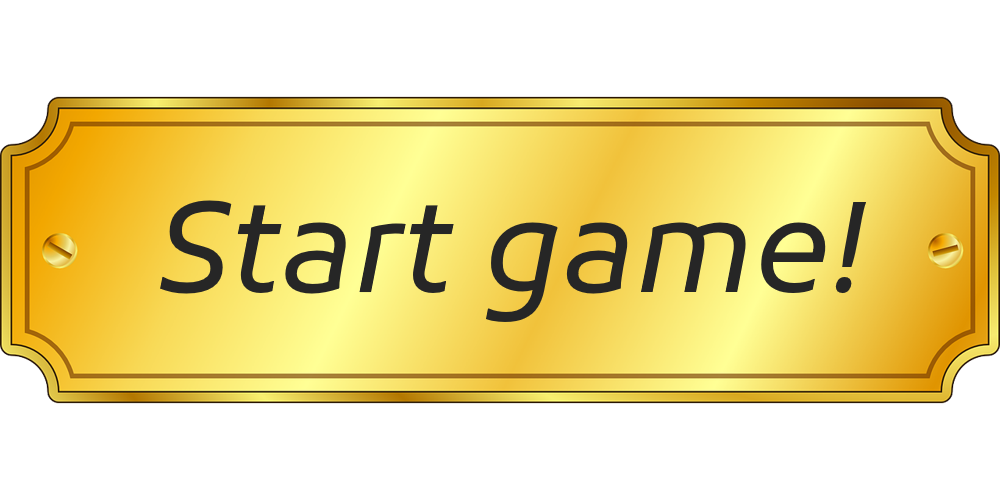
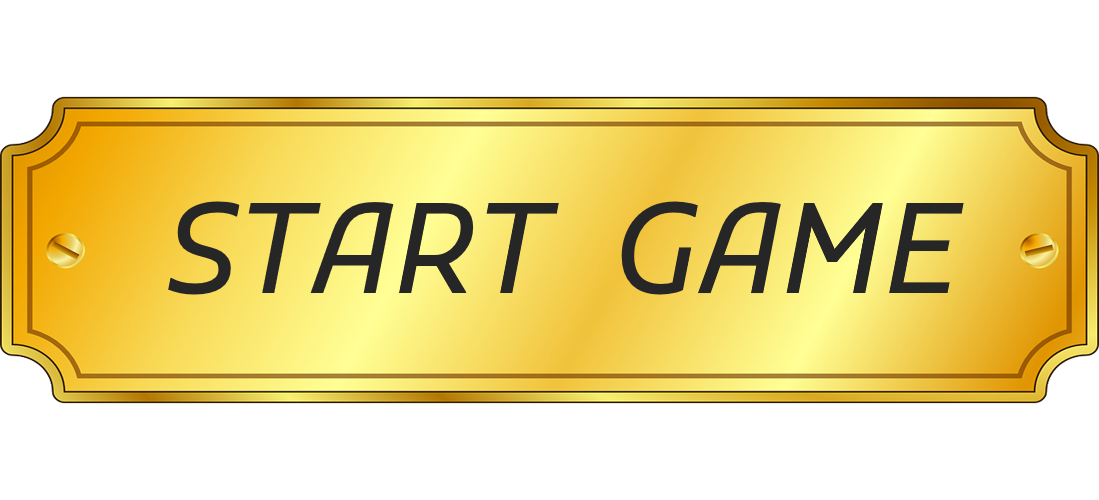
Start-screen: design change + refactoring

Changed region(s): [[0.155, 0.39, 0.899, 0.66]]

diff --git a/src/app/start-screen/start-screen.component.scss b/src/app/start-screen/start-screen.component.scss
@@ -1,27 +1,47 @@
 .start-screen {
-    background-color: #010409ec;
     width: 100vw;
     height: 100vh;
     max-width: 100%;
     display: flex;
-    justify-content: center;
+    justify-content: space-evenly;
     align-items: center;
+    flex-direction: column;
+    position: absolute;
+    z-index: 2;
 
-    img {
-        height: 90vh;
+    h1 {
+        font-size: 5rem;
+        margin-bottom: 0;
+        color: #B30C00;
+        text-shadow: 5px 5px black;
+        text-align: center;
     }
 }
 
-.start-label-box {
+.start-img {
+    max-height: 65vh;
+    max-width: 70vw;
+    object-fit: contain;
+}
+
+.background-img {
     position: absolute;
+    top: 0;
+    bottom: 0;
     left: 0;
     right: 0;
-    bottom: 1rem;
+    height: 100vh;
+    width: 100vw;
+    z-index: -1;
+}
+
+.start-label-box {
     display: flex;
     justify-content: center;
 
     img {
         width: 15vw;
+        min-width: 15rem;
         height: auto;
 
         &:hover {
@@ -30,7 +50,69 @@
     }
 }
 
+.overlay {
+    width: 100vw;
+    height: 100vh;
+    background-color: #010409ec;
+    opacity: 0.6;
+    position: absolute;
+    z-index: 1;
+}
+
+
+@media (max-width: 1200px) {
+    .start-img {
+       max-width: 75vw;
+        
+    }
+}
+
+@media (max-width: 1000px) {
+    .start-img {
+       max-width: 90vw;
+        
+    }
+}
+
+
+@media (max-width: 850px) {
+    .start-screen h1 {
+        font-size: 4rem;
+    }
+    
+    .start-img {
+       max-width: 90vw;
+    }
+}
+
+@media (max-height: 700px) {
+    .start-screen h1 {
+        font-size: 4rem;
+    }
+    .start-label-box img {
+        width: 12rem;
+        min-width: unset;
+
+    }
+}
+
+@media (max-height: 500px) {
+    .start-screen h1 {
+        font-size: 3rem;
+        margin-top: 1rem;
+    }
+    .start-label-box img {
+        width: 10rem;
+
+    }
+}
+
 @media (max-width: 440px) {
+    .start-img {
+        max-width: 100vw;
+         
+     }
+
     .start-screen {
         img {
             height: unset;
@@ -41,6 +123,7 @@
     .start-label-box { 
         img {
             width: 50vw;
+            min-width: unset;
         }
 
     }

diff --git a/src/app/start-screen/start-screen.component.html b/src/app/start-screen/start-screen.component.html
@@ -1,5 +1,8 @@
+<img class="background-img" src="assets/img/board.jpg" >
+<div class="overlay"></div>
 <div class="start-screen">
-    <img src="assets/img/startimg.png">
+    <h1>Ring of Fire</h1>
+    <img class="start-img" src="assets/img/startimg2.png">
     <div class="start-label-box">
         <img (click)="newGame()" src="assets/img/startlabel.png">
     </div>
